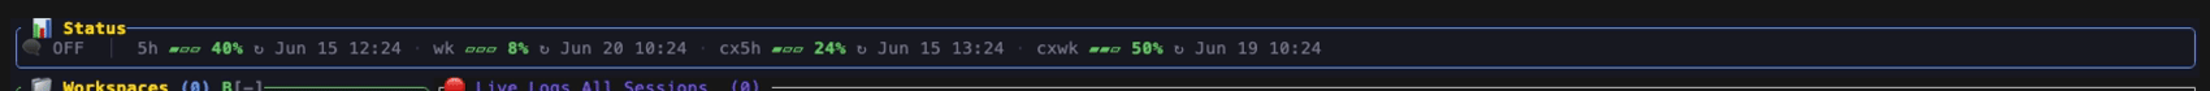
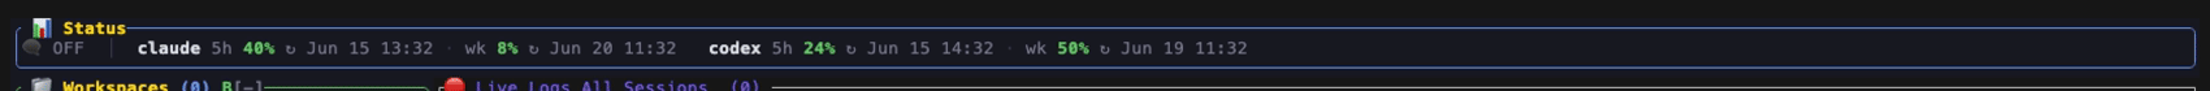
docs(tui): document ainb codex statusline + live status bar
Add an `ainb codex` section to the TUI CLI reference (mirrors
`ainb claudecode`): the statusline command, --force, the pull-not-push
rationale, hide-on-fail, and the compact claude+codex status-bar example.
Refresh the proof captures to the provider-grouped format.

Changed region(s): [[0.0624, 0.4396, 0.6244, 0.6154]]

diff --git a/docs/tui/cli.md b/docs/tui/cli.md
@@ -36,6 +36,7 @@ Run `ainb` with no arguments to launch the TUI, or use any subcommand below for 
   - [`reflect`](#ainb-reflect) — reflect toolchain bootstrap installer
   - [`presets`](#ainb-presets) — session presets
   - [`claudecode`](#ainb-claudecode) — Claude Code provider-specific commands (statusline)
+  - [`codex`](#ainb-codex) — Codex provider-specific commands (statusline / OAuth quota)
   - [`completion`](#ainb-completion) — shell completions
   - [`plugin`](#ainb-plugin) — manage ainb plugins
   - [`fleet`](#ainb-fleet) — orchestrate the claude session fleet
@@ -539,6 +540,36 @@ ainb claudecode <SUBCOMMAND>
 | `--cache-only` | Side-channel mode: write the rate-limit cache only and emit nothing on stdout. |
 
 Wire it into Claude Code's `settings.json` as the `statusLine` command so the TUI can surface live rate-limit windows.
+
+---
+
+### `ainb codex`
+
+Provider-namespaced commands for Codex — the Codex analog of [`ainb claudecode`](#ainb-claudecode). Today only the statusline command lives here.
+
+```bash
+ainb codex <SUBCOMMAND>
+```
+
+| Subcommand | Description |
+|------------|-------------|
+| `statusline` | Pull Codex OAuth quota (5h + weekly) from `chatgpt.com/backend-api/wham/usage` (Bearer + account id read from `~/.codex/auth.json`) and cache it for the TUI top bar. |
+
+**`statusline` flags**
+
+| Flag | Description |
+|------|-------------|
+| `--force` | Bypass the throttle and pull now. |
+
+Unlike Claude Code — which *pushes* its rate-limit windows into `ainb claudecode statusline` on every prompt render — Codex exposes nothing to a render-time process, so its quota must be *pulled* from the usage endpoint (the local rollout JSONL has `rate_limits: null` in exec mode). The command is throttled (~60s), writes a **separate** `codex-live.json` (it never touches the Claude cache), and **hides on failure** — no `~/.codex/auth.json`, a 401, or a parse error leaves the Codex segment off rather than showing stale or zeroed numbers.
+
+You don't normally run it by hand: the TUI's background watcher invokes it (throttled) while open, so the **live status bar** overlays Codex next to Claude:
+
+```
+claude 5h 40% ↻ Jun 15 13:32 · wk 8% ↻ Jun 20 11:32   codex 5h 24% ↻ Jun 15 14:32 · wk 50% ↻ Jun 19 11:32
+```
+
+Each window shows the used percentage and the reset date/time (`↻ <date> <time>`, local timezone). The Codex cluster is absent when Codex isn't logged in; the Claude cluster is absent until you wire the Claude statusline above.
 
 ---
 
